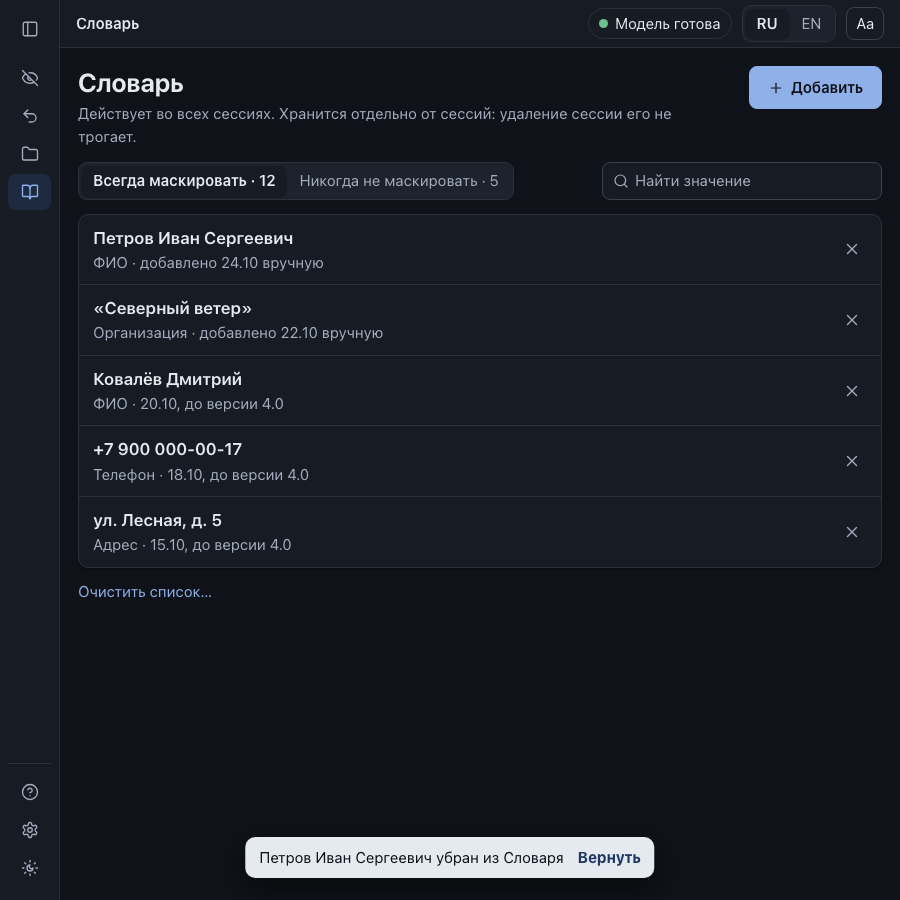
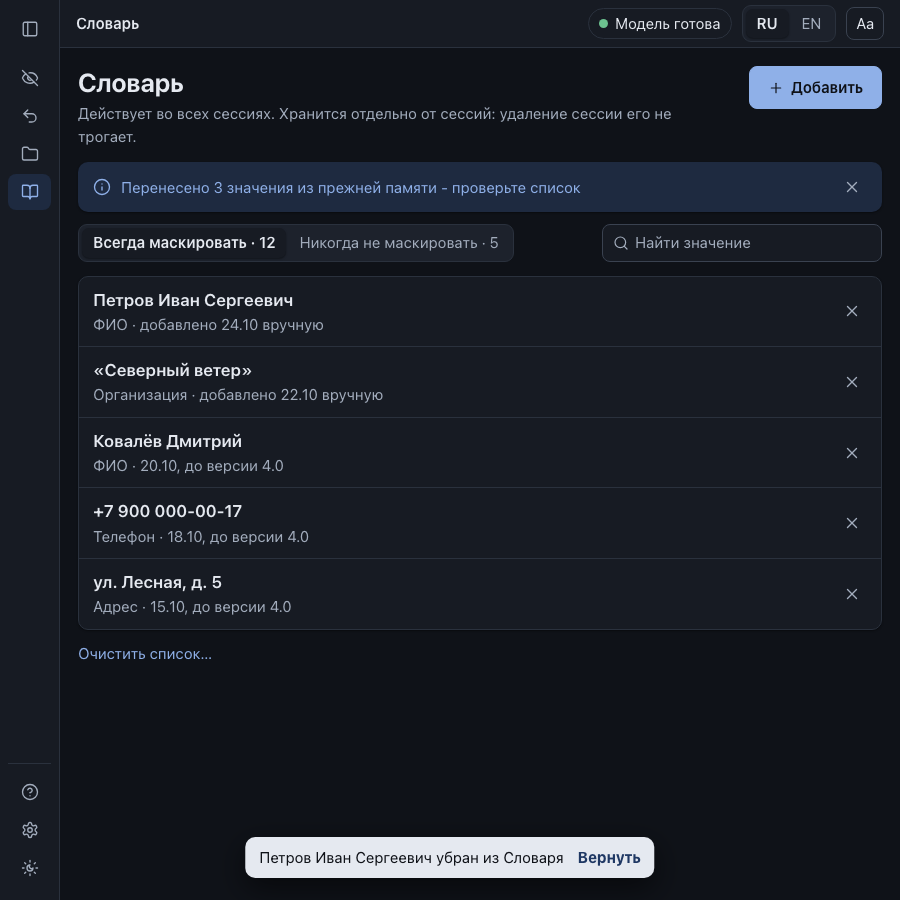
Задание 01: правки проверки дизайн-чата шага 1 в описании 2.1 и макетах (48 снимков); ответы на вопросы 1-3 (1 - да: «Вставить текст» в «Вернуть данные»)

diff --git a/docs/макеты 01/Макет - Anonymizer 4.0 (01).html b/docs/макеты 01/Макет - Anonymizer 4.0 (01).html
@@ -3,7 +3,7 @@
 <head>
 <meta charset="utf-8">
 <meta name="viewport" content="width=device-width, initial-scale=1">
-<title>Макет - Anonymizer 4.0 (задание 01)</title>
+<title>Макет - Anonymizer 4.0 (задание 01, утверждён с правками)</title>
 <style>
 /* Отличия токенов от LKD app.css (контраст 1.9): --ok темнее (#276b43, было 4,4 : 1 на --ok-soft), версия внизу меню - --muted.
    Макет задания 01 (описание v2 «как должно быть»). Каркас и токены - как в Legal Knowledge Desk web/static/app.css
@@ -188,6 +188,11 @@ table.tbl { width: 100%; border-collapse: collapse; font-size: .9375rem; }
 .sw.on { background: var(--accent); } .sw.on::after { left: 18px; }
 :root[data-theme="dark"] .sw.on::after { background: #0f1218; }
 .collapsed { color: var(--muted); }
+.note-line { display: flex; align-items: center; gap: 10px; padding: 9px 14px; margin-bottom: 12px; font-size: .9375rem; background: var(--info-soft); color: var(--info); border-color: transparent; }
+.hint-i { display: inline-flex; width: 16px; height: 16px; border-radius: 50%; border: 1px solid var(--border-strong); font-size: .75rem; align-items: center; justify-content: center; color: var(--muted); }
+.paste { width: 100%; min-height: 150px; box-sizing: border-box; border: 1px solid var(--border-strong); border-radius: var(--radius); background: var(--surface); padding: 12px 14px; font-size: .9375rem; color: var(--text); white-space: pre-wrap; }
+.result { background: var(--paper); color: var(--paper-text); border-radius: var(--radius); border: 1px solid var(--border); padding: 14px 18px; font-size: .9375rem; white-space: pre-wrap; }
+.rv-ok { background: #dff1e5; } .rv-case { background: #fbedcf; } .rv-bad { background: #fbe7e5; color: #8c1d18; }
 
 /* узкое окно (стандарт 1.6) */
 @media (max-width: 1100px) {
@@ -272,7 +277,7 @@ function table(n, total = 41) {
   return `<div class="sec"><div class="sec-h"><h2>${ic("chevron-down")}Таблица замен · ${total}</h2><span class="grow"></span>
     <span class="field" style="width:250px">${ic("search")}Найти: фамилия, ИНН</span>
     <span class="sel">Вид: все${ic("chevron-down")}</span><span class="btn">${ic("plus")}Добавить вручную</span></div>
-    <div class="card" style="overflow:hidden"><table class="tbl"><tr><th style="width:150px">Метка</th><th>В документе</th><th class="hide-narrow">Для нового текста</th><th style="width:150px">Вид</th><th style="width:40px"></th></tr>
+    <div class="card" style="overflow:hidden"><table class="tbl"><tr><th style="width:150px">Метка</th><th>В документе</th><th class="hide-narrow" title="ФИО - в именительном падеже, программа склонит сама">Начальная форма <span class="hint-i">?</span></th><th style="width:150px">Вид</th><th style="width:40px"></th></tr>
     ${rows.map(r => `<tr><td>${r[0]}</td><td>${r[1]}</td><td class="hide-narrow">${r[2]}</td><td class="muted">${r[3]}</td><td><span class="ib">${ic("ellipsis")}</span></td></tr>`).join("")}</table></div></div>`;
 }
 
@@ -311,7 +316,7 @@ S.done = () => {
   return head("Обезличить", ANON_SUB, `<span class="btn primary" disabled>${ic("eye-off")}Обезличить</span><span class="xs muted">Новых файлов нет</span>`)
     + sessline("3 файла", "41 запись") + strip
     + `<div class="card sum"><span class="big">${ic("shield-check")}Готово: 3 файла · 41 запись</span><span class="chip warn">${ic("triangle-alert")}Проверьте 1 файл</span><span class="grow"></span>
-       <span class="btn">${ic("download")}Скачать все (ZIP)</span><span class="btn">${ic("copy")}Инструкция для нейросети: Скопировать</span></div>`
+       <span class="btn">${ic("download")}Скачать все (ZIP)</span><span class="btn">${ic("copy")}Скопировать инструкцию для нейросети</span></div>`
     + `<div class="card list">`
     + frow("doc", "Договор поставки - Петров.docx", `${ic("check")}Найдено 14 · утечек нет · Договор поставки ${tok("FIO_1", "p")}.docx`, "ok", ACT_DONE)
     + frow("xls", "Реестр платежей сентябрь.xlsx", `${ic("triangle-alert")}Найдено 9 · проверьте 2 места - откройте «Просмотр»: там их можно замаскировать`, "warn", ACT_DONE)
@@ -319,7 +324,7 @@ S.done = () => {
     + `</div>` + table(5);
 };
 function previewBody(withSel) {
-  return `<div class="pvbar"><span class="fn">Договор поставки ${tok("FIO_1", "p")}.docx</span><span class="grow"></span>
+  return `<div class="pvbar"><span class="muted small">Скачается как:</span><span class="fn">Договор поставки ${tok("FIO_1", "p")}.docx</span><span class="grow"></span>
       <span class="field hide-narrow" style="width:260px">${ic("search")}Найти в тексте</span>
       <span class="check"><span class="box"></span>Показать исходный текст</span><span class="btn sm">${ic("download")}Скачать${ic("chevron-down")}</span></div>
     <div class="pv"><div class="doc"><div class="sheet">
@@ -348,11 +353,11 @@ function previewBody(withSel) {
     </div></div></div>`;
 }
 S.preview = () => {
-  menu("anon"); crumbs(["Обезличить", SESS, "Договор поставки [FIO_1].docx"], true); model("", "Модель готова");
+  menu("anon"); crumbs(["Обезличить", SESS, "Договор поставки - Петров.docx"], true); model("", "Модель готова");
   return previewBody(true);
 };
 S.unmask = () => {
-  menu("anon"); crumbs(["Обезличить", SESS, "Договор поставки [FIO_1].docx"], true); model("", "Модель готова");
+  menu("anon"); crumbs(["Обезличить", SESS, "Договор поставки - Петров.docx"], true); model("", "Модель готова");
   layer(`<div class="ov"><div class="dlg"><h2>Не маскировать «Петров Иван Сергеевич»?</h2>
     <p>В файлах значение останется открытым. Метка ${tok("FIO_1", "p")} пропадёт из текста, запись перейдёт в «Не маскируется» - её можно вернуть.</p>
     <div class="radio"><span class="rd on"></span>Только в этой сессии</div>
@@ -364,18 +369,28 @@ S.unmask = () => {
 S.restore = () => {
   menu("restore"); crumbs(["Вернуть данные", SESS + " · 3 файла"]); model("", "Модель готова");
   return head("Вернуть данные", "Загрузите ответ нейросети - метки заменятся значениями из выбранной сессии.", `<span class="btn primary" disabled>${ic("undo-2")}Вернуть данные</span><span class="xs muted">Новых файлов нет</span>`)
-    + `<div class="sessline"><span class="muted">Сессия:</span><span class="sel"><b>${SESS}</b> · 3 файла · 41 запись${ic("chevron-down")}</span></div>` + strip.replace("ещё файлы", "ответ нейросети")
+    + `<div class="sessline"><span class="muted">Сессия:</span><span class="sel"><b>${SESS}</b> · 3 файла · 41 запись${ic("chevron-down")}</span><span class="grow"></span><div class="seg"><span>Текст</span><span class="on">Файл</span></div></div>` + strip.replace("ещё файлы", "ответ нейросети")
     + `<div class="card sum"><span class="big">${ic("shield-check")}Готово: 2 файла · вернулось 52 значения</span><span class="chip bad">${ic("triangle-alert")}1 метка не найдена</span><span class="grow"></span><span class="btn">${ic("download")}Скачать все (ZIP)</span></div>`
     + `<div class="card list">`
-    + frow("doc", "Ответ нейросети - претензия.docx", `<span class="chip ok">31 точно</span><span class="chip warn">6 с подбором падежа</span><span>→ Претензия покупателю_restored.docx</span>`, "", ACT_DONE)
+    + frow("doc", "Ответ нейросети - претензия.docx", `<span class="chip ok">31 точно</span><span class="chip warn">6 с подбором падежа</span><span>→ Претензия покупателю (данные возвращены).docx</span>`, "", ACT_DONE)
     + frow("doc", "Ответ нейросети - письмо.docx", `<span class="chip ok">15 точно</span><span class="chip bad">не найдены в этой сессии: [FIO_9] - проверьте, та ли сессия выбрана</span>`, "", ACT_DONE)
     + `</div>`
     + `<div class="sec"><div class="card" style="padding:12px 16px; display:flex; gap:14px; align-items:center; flex-wrap:wrap"><span class="muted small">В «Просмотре» вставленные значения подсвечены:</span><span class="chip ok">точно</span><span class="chip warn">падеж подобран - проверьте</span><span class="chip bad">метка не найдена</span></div></div>`;
+};
+S.restoretext = () => {
+  menu("restore"); crumbs(["Вернуть данные", SESS + " · 3 файла"]); model("", "Модель готова");
+  return head("Вернуть данные", "Вставьте ответ нейросети - метки заменятся значениями из выбранной сессии.", `<span class="btn primary">${ic("undo-2")}Вернуть данные</span>`)
+    + `<div class="sessline"><span class="muted">Сессия:</span><span class="sel"><b>${SESS}</b> · 3 файла · 41 запись${ic("chevron-down")}</span><span class="grow"></span><div class="seg"><span class="on">Текст</span><span>Файл</span></div></div>`
+    + `<div class="paste">Направляем [FIO_1] ответ на претензию ООО «[YUL_1]» от 3 сентября.\nПоставщик готов заменить товар по договору. Подписание соглашения поручено [FIO_2].</div>`
+    + `<div class="card sum" style="margin-top:12px"><span class="big">${ic("shield-check")}Вернулось 3: 1 точно, 2 с подбором падежа</span><span class="grow"></span><span class="btn">${ic("copy")}Скопировать</span></div>`
+    + `<div class="result">Направляем <span class="rv-case">Петрову Ивану Сергеевичу</span> ответ на претензию ООО <span class="rv-ok">«Северный ветер»</span> от 3 сентября.\nПоставщик готов заменить товар по договору. Подписание соглашения поручено <span class="rv-case">Сидоровой Анне Викторовне</span>.</div>`
+    + `<div class="sec"><div class="card" style="padding:12px 16px; display:flex; gap:14px; align-items:center; flex-wrap:wrap"><span class="muted small">Подсвечено:</span><span class="chip ok">точно</span><span class="chip warn">падеж подобран - проверьте</span><span class="chip bad">метка не найдена</span><span class="muted small">Текст не сохраняется на диск.</span></div></div>`;
 };
 S.dict = () => {
   menu("dict"); crumbs(["Словарь"]); model("", "Модель готова");
   const rows = [["Петров Иван Сергеевич", "ФИО", "добавлено 24.10 вручную"], ["«Северный ветер»", "Организация", "добавлено 22.10 вручную"], ["Ковалёв Дмитрий", "ФИО", "20.10, до версии 4.0"], ["+7 900 000-00-17", "Телефон", "18.10, до версии 4.0"], ["ул. Лесная, д. 5", "Адрес", "15.10, до версии 4.0"]];
   return head("Словарь", "Действует во всех сессиях. Хранится отдельно от сессий: удаление сессии его не трогает.", `<span class="btn primary">${ic("plus")}Добавить</span>`)
+    + `<div class="card note-line">${ic("info")}<span>Перенесено 3 значения из прежней памяти - проверьте список</span><span class="grow"></span><span class="ib" title="Скрыть">${ic("x")}</span></div>`
     + `<div class="sessline"><div class="seg"><span class="on">Всегда маскировать · 12</span><span>Никогда не маскировать · 5</span></div><span class="grow"></span><span class="field" style="width:280px">${ic("search")}Найти значение</span></div>`
     + `<div class="card list">${rows.map(r => `<div class="row"><div class="main2"><div class="nm">${r[0]}</div><div class="meta">${r[1]} · ${r[2]}</div></div><div class="acts"><span class="ib" title="Убрать из Словаря">${ic("x")}</span></div></div>`).join("")}</div>`
     + `<div style="margin-top:12px; display:flex; gap:10px"><span class="link small">Очистить список…</span></div>`
@@ -412,7 +427,7 @@ S.settings = () => {
     + `<div class="card sgrp"><div class="gh"><h2>Хранение</h2></div>`
     + r("Хранить сессии", "Сессия удаляется целиком: оригиналы, файлы, таблица замен. За 3 дня - пометка в «Сессиях»", `<div class="seg"><span>7 дней</span><span class="on">30 дней</span><span>90 дней</span></div>`) + `</div>`
     + `<div class="card sgrp"><div class="gh">${ic("chevron-down")}<h2>Дополнительно</h2></div>`
-    + r("Использовать нейросеть", "Локальная нейросеть проверяет найденное и подбирает падеж в спорных местах. Медленнее; по замерам пользы почти нет. Работает в очереди видеокарты", `<span class="sw"></span>`) + `</div>`
+    + r("Использовать нейросеть", "Проверяет найденное и подбирает падеж в спорных местах. Медленнее, работает в очереди видеокарты", `<span class="sw"></span>`) + `</div>`
     + `<div class="card sgrp"><div class="gh collapsed">${ic("chevron-down").replace('class="i"', 'class="i" style="transform:rotate(-90deg)"')}<h2>Служебное</h2><span class="muted small">папка данных, журнал, режим диагностики, версия, остановить программу</span></div></div>`;
 };
 

diff --git a/docs/макеты 01/снять.py b/docs/макеты 01/снять.py
@@ -11,6 +11,7 @@ PAGE = (HERE / "Макет - Anonymizer 4.0 (01).html").as_uri()
 STATES = {"empty": "00 Обезличить - пусто", "upload": "01 Обезличить - файлы выбраны",
           "processing": "02 Обезличить - обработка", "done": "03 Обезличить - готово",
           "preview": "04 Просмотр с правкой", "unmask": "05 Окно «Не маскировать»", "restore": "06 Вернуть данные",
+          "restoretext": "06а Вернуть данные - текст",
           "dict": "07 Словарь", "sessions": "08 Сессии", "delete": "09 Окно удаления сессии", "settings": "10 Настройки"}
 WIDTHS = (1440, 900)
 with sync_playwright() as pw:

diff --git a/docs/Функциональное описание.md b/docs/Функциональное описание.md
@@ -1,11 +1,11 @@
 # Anonymizer - функциональное описание
 
-Версия 2 «как должно быть» · 24.10.2026 · программа 4.0 · основано на: версия 1 «как есть» (коммит `cd8d4c7`, 43 разрыва
+Версия 2.1 «как должно быть» · 24.10.2026 · программа 4.0 · основано на: версия 1 «как есть» (коммит `cd8d4c7`, 43 разрыва
 Р-1…Р-43), задание `docs/01. Задание для Claude Code - ревью дизайн-чата…`, `docs/Продукт.md`, «Единый стандарт
 программ» (24.10), `CLAUDE.md`. Макеты: `docs/макеты 01/` (1440 и 900 px, светлая и тёмная тема).
 
-**Это описание - на утверждение дизайн-чату и Андрею. Код по нему пишется только после «да».** Пока код не менялся:
-программа работает как в версии 1.
+**Утверждено** дизайн-чатом и Андреем 24.10 (вечер) с шестью правками - они внесены в версию 2.1 (раздел 9). По
+этому описанию написана программа 4.0.
 
 ## Решения по вопросам версии 1
 
@@ -21,15 +21,15 @@
 | 6 | Имя сессии из имени файла | нет: «Сессия 24.10», переименование вручную |
 | 7 | Пересобрать `.app` | да, общим сборщиком; ярлык - на новую сборку |
 
-## Вопросы Андрею (новые)
+## Вопросы шага 1 - решения
 
-Пока ответа нет, действует разумное решение из правой колонки.
+Ответы - по рекомендации дизайн-чата (проверка шага 1, 24.10 вечер); Андрей может изменить любое.
 
-| № | Вопрос | Решение, пока нет ответа |
+| № | Вопрос | Решение |
 |---|---|---|
-| 1 | Ответ нейросети часто - текст в чате, а не файл. Нужно ли в «Вернуть данные» поле «Вставить текст» (вставили ответ → получили текст с данными, «Скопировать»)? | нет: только файлы, как сейчас. Это новая функция - отдельным заданием, если нужна |
-| 2 | Нейросеть подбирает падеж в спорных местах при возврате. Сейчас она делает это сама, если Ollama запущена. Подчинить её той же галочке «Использовать нейросеть»? | да, одна галочка на оба случая. Выключена - падеж только правилами, спорные места подсвечены жёлтым, как сейчас |
-| 3 | Срок хранения: варианты 7 / 30 / 90 дней. Нужен ли вариант «не удалять»? | нет: только 7 / 30 / 90 (минимизация данных) |
+| 1 | Ответ нейросети часто - текст в чате, а не файл. Нужно ли в «Вернуть данные» поле «Вставить текст»? | **да** - это основной путь: вставили ответ → «Вернуть данные» → текст с данными и «Скопировать» (3.7) |
+| 2 | Подбор падежа нейросетью при возврате подчинить той же галочке «Использовать нейросеть»? | **да**, одна галочка на оба случая. Выключена - падеж только правилами, спорные места подсвечены жёлтым |
+| 3 | Срок хранения 7 / 30 / 90 дней. Нужен ли вариант «не удалять»? | **нет**: только 7 / 30 / 90 (минимизация данных) |
 
 ## Практика
 
@@ -52,7 +52,7 @@ Anonymizer готовит документы к отправке во внешн
 
 Главные сценарии:
 1. **Обезличить и отправить:** «Обезличить» → перетащить файлы → «Обезличить» → «Просмотр» (проверить, поправить) →
-   «Скачать» → «Инструкция для нейросети: Скопировать».
+   «Скачать» → «Скопировать инструкцию для нейросети».
 2. **Вернуть данные:** «Вернуть данные» → выбрать сессию → загрузить ответ нейросети → «Вернуть данные» → «Просмотр»
    (зелёным - точно, жёлтым - падеж подобран, красным - метка не найдена) → «Скачать».
 3. **Поправить найденное:** «Просмотр» → «Не маскировать» / «Замаскировать» выделенное / «Изменить» → файл
@@ -170,7 +170,7 @@ Anonymizer готовит документы к отправке во внешн
 | «Скачать ▾» в строке | Word (или исходный формат), PDF - если в Настройках «Также сохранить PDF» | файл в «Загрузки» | файл не готов |
 | «⋯» в строке | «Убрать из сессии» (окно: «Файл и его оригинал удалятся. Записи таблицы замен останутся - они нужны другим файлам и для «Вернуть данные».»); «Проверить ещё нейросетью» - только если нейросеть включена | файл и оригинал удалены сразу | - |
 | «Скачать все (ZIP)» (в итоге) | обезличенные файлы сессии одним архивом - только этого раздела | архив в «Загрузки» | готовых файлов меньше двух - кнопки нет |
-| «Инструкция для нейросети: Скопировать» (в итоге) | копирует текст для внешней нейросети: метки не изменять, не склонять, не переводить, не объединять; одна метка - одно лицо или одна организация | строка «Скопировано - вставьте перед документом в чат нейросети»; буфер недоступен - окно программы с выделенным текстом и «Закрыть» | - |
+| «Скопировать инструкцию для нейросети» (в итоге) | копирует текст для внешней нейросети: метки не изменять, не склонять, не переводить, не объединять; одна метка - одно лицо или одна организация | строка «Скопировано - вставьте перед документом в чат нейросети»; буфер недоступен - окно программы с выделенным текстом и «Закрыть» | - |
 
 - **Ход обработки** (блок хода, стандарт 2.2): полоса с процентом; «Файл 2 из 3 · Ищу данные · 0:14 · осталось
   ~0:20»; «Остановить». Этапы: «Читаю файл» → «Ищу данные» → «Заменяю» → «Проверяю утечки» (и «Проверяю
@@ -182,7 +182,10 @@ Anonymizer готовит документы к отправке во внешн
   `/api/ner-retry`. «Обезличить без распознавания имён» - красным, с подписью «ФИО и организации найдутся только
   правилами - проверьте каждый файл в «Просмотре» перед отправкой».
 - **Итог** (макет `3`): «Готово: 3 файла · 41 запись · утечек нет» (или «Проверьте 2 файла» жёлтым) · «Скачать все
-  (ZIP)» · «Инструкция для нейросети: Скопировать».
+  (ZIP)» · «Скопировать инструкцию для нейросети».
+- **Имена файлов** (было Р-39, правка 6 дизайн-чата): в окне - исходное имя («Договор поставки - Петров.docx»), под
+  ним - имя обезличенного файла; скачиваемые файлы и ZIP - **только с метками** («Договор поставки [FIO_1].docx»,
+  архив «Обезличенные файлы - Сессия 24.10.zip»). Имя исходного файла не уходит ни в файл, ни в архив, ни в журнал.
 - **Строка файла:**
   - готово: «Найдено 14 · утечек нет · Договор поставки [YUL_1].docx»;
   - проверьте: «Найдено 9 · проверьте 2 места - откройте «Просмотр»: там их можно замаскировать» (жёлтым; список мест
@@ -224,22 +227,23 @@ Anonymizer готовит документы к отправке во внешн
     «Обезличить» с прежними итогами, файлы с данными - только в «Вернуть данные».
   - UC-A6: файл 120 МБ → строка «Файл больше 100 МБ - разделите его», остальные файлы обработаны.
   - UC-A7: «Убрать из сессии» → окно программы → файла нет в списке и на диске, записи таблицы замен на месте.
-  - UC-A8: «Инструкция для нейросети: Скопировать» → в буфере текст инструкции.
+  - UC-A8: «Скопировать инструкцию для нейросети» → в буфере текст инструкции.
 
 ### 3.3 Таблица замен
 
 - **Назначение:** все записи сессии в одной таблице: найти, исправить, добавить, снять маску и вернуть её.
 - **Где:** под списком файлов в «Обезличить»; заголовок «Таблица замен · 41» сворачивает и разворачивает.
 - **Что видно** (макет `3`): поиск «Найти: фамилия, ИНН, метка…»; фильтр «Вид: все ▾» - все 30 видов (5.3) и
-  отдельным пунктом **«Не маскируется»**; «+ Добавить вручную»; таблица «Метка | В документе | Для нового текста | Вид
-  | ⋯». Одна строка - одна метка, все формы через « · » (первая - основная).
+  отдельным пунктом **«Не маскируется»**; «+ Добавить вручную»; таблица «Метка | В документе | Начальная форма | Вид
+  | ⋯»; у заголовка «Начальная форма» - подсказка «ФИО - в именительном падеже, программа склонит сама». Одна строка -
+  одна метка, все формы через « · » (первая - основная).
 
 | Элемент | Что делает | Что меняется | Когда неактивен |
 |---|---|---|---|
-| поиск | по метке, формам, форме для нового текста | строки; пусто - «Ничего не найдено» | - |
+| поиск | по метке, формам, начальной форме | строки; пусто - «Ничего не найдено» | - |
 | «Вид ▾» | 30 видов + «Не маскируется» | строки | - |
 | «+ Добавить вручную» | окно записи (3.4) | новая запись; файлы сессии пересобраны | **доступна всегда** (было Р-20). До первого файла - подпись в окне «Добавится и применится при обработке» |
-| «⋯» строки → «Изменить» | окно записи | новая метка (старая остаётся для прежних файлов) или та же, если менялась только форма для нового текста; пересборка | - |
+| «⋯» строки → «Изменить» | окно записи | новая метка (старая остаётся для прежних файлов) или та же, если менялась только начальная форма; пересборка | - |
 | «⋯» строки → «Не маскировать» | 3.5 | строка уходит в «Не маскируется»; пересборка | - |
 | «⋯» строки в «Не маскируется» → «Вернуть маску» | маска снова действует, метка та же (было Р-22) | строка возвращается в таблицу; пересборка | - |
 
@@ -265,7 +269,8 @@ Anonymizer готовит документы к отправке во внешн
 - **Что видно:**
   - заголовок; «Метка: [FIO_1]» (только при правке);
   - «Значение в документе» - «Ровно как в документе: это значение ищется и заменяется меткой»;
-  - «Форма для нового текста (необязательно)» - «Для ФИО - именительный падеж: программа сама склонит»;
+  - «Начальная форма (необязательно)» - «ФИО - в именительном падеже, программа склонит сама. Она вставляется в новый
+    текст ответа нейросети»;
   - «Вид» - 30 видов, при «Замаскировать» угадан по тексту;
   - **«Маскировать: только в этой сессии / всегда»** - по умолчанию «только в этой сессии»; «всегда» кладёт значение
     в «Словарь → Всегда маскировать» (3.11). При правке переключатель показан, только если значение уже в Словаре;
@@ -298,9 +303,9 @@ Anonymizer готовит документы к отправке во внешн
 
 - **Назначение:** увидеть результат, не открывая файл; проверить и поправить на месте.
 - **Как попасть / уйти:** «Просмотр» в строке файла - экран внутри «Обезличить», путь «Обезличить › Сессия 24.10 ›
-  Договор поставки [YUL_1].docx»; «← Назад» - к списку файлов. Не окно поверх: «Назад» и путь, как везде.
+  Договор поставки - Петров.docx» (исходное имя); «← Назад» - к списку файлов. Не окно поверх: «Назад» и путь, как везде.
 - **Что видно** (макет `4`):
-  1. Строка над документом: имя файла; поиск «Найти в тексте: слово, фамилия, метка…»; «☐ Показать исходный
+  1. Строка над документом: «Скачается как: Договор поставки [YUL_1].docx» (имя с метками); поиск «Найти в тексте: слово, фамилия, метка…»; «☐ Показать исходный
      текст»; «Скачать ▾».
   2. Документ на белом листе (в обеих темах, 1.9):
      - Word - как в Word (docx-preview);
@@ -365,6 +370,12 @@ Anonymizer готовит документы к отправке во внешн
   - в новом тексте ФИО склоняется по правилам (`core/cases.py`);
   - неясный падеж - нейросетью, только если она включена (вопрос 2), иначе правилом с жёлтой подсветкой;
   - организация без кавычек и ОПФ получает их по Настройкам.
+- **Вставить текст** (вопрос 1 - да; основной путь: ответ нейросети чаще текст в чате): под зоной загрузки -
+  переключатель «Файл | Текст». «Текст» - поле «Вставьте ответ нейросети» (Cmd+V), кнопка «Вернуть данные»; под полем -
+  результат с подсветкой (те же цвета, что в просмотре 3.8), итог «Вернулось 12: 10 точно, 2 с подбором падежа» и
+  «Скопировать» (обычным текстом). Текст не сохраняется на диск и пропадает при уходе с экрана.
+- **Имя файла с возвращёнными данными** (правка 1): «<имя ответа с данными> (данные возвращены).docx», например
+  «Претензия покупателю (данные возвращены).docx»; не `_restored`.
 - **Строка файла:**
   - «Вернулось 37: 31 точно, 6 с подбором падежа»;
   - «Не найдены в этой сессии: [FIO_9] - проверьте, та ли сессия выбрана» (красным);
@@ -374,10 +385,13 @@ Anonymizer готовит документы к отправке во внешн
 - **Данные:** что и как вставлено - `uploads/<сессия>/restore_marks/<файл>.json`; раздел «вернуть» - в
   `manifest.json`.
 - **Сценарии проверки:**
-  - UC-D1: изменить «Форму для нового текста» у ФИО → вернуть ответ с меткой в новом предложении → в файле
+  - UC-D1: изменить «Начальную форму» у ФИО → вернуть ответ с меткой в новом предложении → в файле
     исправленная форма в нужном падеже.
   - UC-D2: ответ с меткой не из этой сессии → «Не найдены в этой сессии: …».
   - UC-D3: две сессии → «Сессия ▾» → вторая → значения из второй.
+  - UC-D4: «Текст» → вставить ответ с [FIO_1] в новом предложении → «Вернуть данные» → значение в нужном падеже
+    подсвечено жёлтым, «Скопировать» → в буфере текст без меток.
+  - UC-D5: имя файла с возвращёнными данными - «… (данные возвращены).docx».
 
 ### 3.8 Просмотр файла с возвращёнными данными
 
@@ -454,7 +468,9 @@ Anonymizer готовит документы к отправке во внешн
   - переключатель «Всегда маскировать · 12» | «Никогда не маскировать · 5»;
   - поиск;
   - строки: значение, вид, откуда («добавлено 24.10 вручную», «из «Не маскировать»», «20.10, до версии 4.0»), ✕;
-  - внизу ссылка «Очистить список…».
+  - внизу ссылка «Очистить список…»;
+  - **после перехода на 4.0** - одна строка над списком «Всегда маскировать»: «Перенесено N значений из прежней памяти -
+    проверьте список» и ✕ (строка скрывается навсегда).
 
 | Элемент | Что делает | Что меняется | Когда неактивен |
 |---|---|---|---|
@@ -468,7 +484,9 @@ Anonymizer готовит документы к отправке во внешн
   - Значение в обоих списках сразу быть не может: добавление в один убирает из другого (строка «Перенесено из
     «Никогда не маскировать»»).
 - **Данные:** `known_entities` (всегда) и новая таблица `never_mask` (никогда) в `anon.db`. Миграция - 5.4: прежняя
-  память переходит в «Всегда маскировать» с пометкой «до версии 4.0».
+  память переходит в «Всегда маскировать» с пометкой «до версии 4.0»; на экране - строка «Перенесено N значений из
+  прежней памяти - проверьте список».
+- **Срок:** Словарь хранит значения без срока, пока их не удалят (в Справке - «Что такое сессия и Словарь»).
 - **Состояния:**
   - «Всегда маскировать» пуст: «Пусто. Сюда попадают значения, для которых вы выбрали «всегда» при добавлении
     вручную»;
@@ -494,7 +512,7 @@ Anonymizer готовит документы к отправке во внешн
 | | ОПФ (ООО, АО…) | по смыслу / всегда / не добавлять | «Добавлять ли ООО, АО…, если рядом их нет» |
 | | Подсветить в Word места с подобранным падежом | вкл | «Жёлтая заливка - проверьте эти места» |
 | Хранение | Хранить сессии | 7 / **30** / 90 дней | «Сессия удаляется целиком: оригиналы, файлы, таблица замен. За 3 дня - пометка в «Сессиях»» |
-| Дополнительно (свёрнуто) | Использовать нейросеть | **выкл** | «Локальная нейросеть проверяет найденное и подбирает падеж в спорных местах. Медленнее; по замерам пользы почти нет. Работает в очереди видеокарты» |
+| Дополнительно (свёрнуто) | Использовать нейросеть | **выкл** | «Проверяет найденное и подбирает падеж в спорных местах. Медленнее, работает в очереди видеокарты» |
 | | Модель | список моделей Ollama (`qwen3.5:9b`), выбор сохраняется (было Р-43) | «Ollama: готова» / «Ollama не запущена - Запустить» / «Нет модели - см. Справку» (без ссылки в интернет) |
 | Служебное (свёрнуто) | Папка данных | путь, «Открыть» | - |
 | | Журнал | «Открыть папку», «Последние задачи» (окно: 20 последних обработок, без имён файлов и значений) | - |
@@ -514,7 +532,8 @@ Anonymizer готовит документы к отправке во внешн
 
 - **Что видно:** экран «Справка» - те же разделы, что в этом описании, своими словами: «Как обезличить», «Как вернуть
   данные», «Что такое сессия и Словарь», «Что делать, если программа что-то не нашла», «Как хранятся данные»,
-  «Нейросеть и видеокарта». «Как пользоваться.docx» и «How to use.docx» собираются из того же текста
+  «Нейросеть и видеокарта». В «Что такое сессия и Словарь» - что сессия удаляется по сроку, а Словарь хранит
+  значения без срока, пока их не удалят. «Как пользоваться.docx» и «How to use.docx» собираются из того же текста
   (`scripts/build_howto_docx.py`, стандарт 5.1; было Р-31).
 
 ### 3.14 Окно «Видеокарта занята» (общий модуль `common/lock`)
@@ -655,7 +674,6 @@ XLSM; PDF с текстом → DOCX (+ PDF по настройке); PDF-ска
 - **Распознавания сканов на Windows** - Apple Vision есть только на macOS.
 - **Новой Windows-сборки** - решение Андрея 24.10: Windows - только Herald, Scribe, «Понятный документ».
   `build_windows.bat` и `Anonymizer.spec` для Windows остаются как есть и не проверяются.
-- **Вставки ответа текстом** - вопрос 1 Андрею; пока только файлы.
 - **pdf.js и «Было / стало» в две колонки** (стандарт 8.3) - для обезличивания «было» - это персональные данные на
   экране рядом с результатом. Вместо этого - «Показать исходный текст» на месте.
 
@@ -717,6 +735,8 @@ XLSM; PDF с текстом → DOCX (+ PDF по настройке); PDF-ска
 - **`scripts/check_all.sh`** перед push (уже подключён, общий блок `ci`).
 - **Полнота:** стенд 245 вариантов до и после - не ниже 99 %, FP 0, RT 0; `scripts/e2e_private.py` - 0 ошибок.
 - **Миграция:** копия базы Андрея во временной папке → 4.0 → числа до и после совпадают.
+- **Имена файлов** (правка 6): в окне - исходное имя; имена скачиваемых файлов, имена внутри ZIP и имя ZIP не
+  содержат ни одного значения таблицы замен (тест на вымышленном «Договор поставки - Петров.docx»).
 - **Аудит «мёртвых концов»** (Методика): каждая кнопка ведёт к действию этого описания.
 
 ## 9. Журнал изменений описания
@@ -725,3 +745,4 @@ XLSM; PDF с текстом → DOCX (+ PDF по настройке); PDF-ска
 |---|---|---|---|
 | 1 | 24.10.2026 | первое описание «как есть» по коду (коммит 5c305f8) | перевод на методику |
 | 2 | 24.10.2026 | «как должно быть»: общий каркас (4 раздела), один режим «Обезличить», «Не маскировать» одним словом, «Словарь», сессии без имени файла и с удалением целиком, ход работы и «Остановить», ошибки по-русски, Настройки по группам, миграция с копией; 43 разрыва → раздел 7 | 01 |
+| 2.1 | 24.10.2026 | правки дизайн-чата шага 1: имя «… (данные возвращены)», колонка «Начальная форма», «Скопировать инструкцию для нейросети», подпись «Использовать нейросеть», строка «Перенесено N значений» в Словаре и срок Словаря в Справке, исходное имя в окне и только метки в скачиваемых именах; ответы на вопросы 1-3 (1 - да: «Вставить текст» в «Вернуть данные») | 01 |

diff --git a/docs/макеты 01/Макеты 01 - что где.md b/docs/макеты 01/Макеты 01 - что где.md
@@ -1,12 +1,14 @@
-# Anonymizer 4.0 - макеты к описанию версии 2 (задание 01, на утверждение)
+# Anonymizer 4.0 - макеты к описанию версии 2.1 (задание 01, утверждены с правками)
 
-24.10.2026. Макеты к «Функциональное описание.md» версии 2 «как должно быть». Код программы не менялся: он будет
-написан только после «да».
+24.10.2026. Макеты к «Функциональное описание.md» версии 2.1 «как должно быть». Утверждены дизайн-чатом 24.10 (вечер);
+правки проверки шага 1 внесены: имя «… (данные возвращены)», колонка «Начальная форма», кнопка «Скопировать инструкцию
+для нейросети», подпись «Использовать нейросеть», строка «Перенесено N значений» в Словаре, исходное имя в пути просмотра
+и «Скачается как: …» с метками, «Вернуть данные → Текст» (ответ на вопрос 1 - да).
 
 - **Размеры:** 1440 × 900 и 900 × 900 (узкое окно: меню значками, стандарт 1.6).
 - **Темы:** светлая и тёмная, масштаб 100 % (текст 17 px).
 - **Данные:** все вымышленные. Каркас и токены - как в Legal Knowledge Desk `web/static/app.css`, значки - lucide (ISC).
-- **Проверено** на всех 44 снимках:
+- **Проверено** на всех 48 снимках:
   - контраст - общий модуль `common/a11y` (axe-core, WCAG 2.1 AA) - 0 нарушений;
   - обрезанный текст (`scrollWidth > clientWidth`) - 0.
 
@@ -15,17 +17,18 @@
 | 00 | `00 Обезличить - пусто` | первый запуск: зона загрузки, «Сессия появится сама при первом файле», «Обезличить» неактивна с причиной | 3.2 |
 | 01 | `01 Обезличить - файлы выбраны` | сессия «Сессия 24.10», три новых файла, «Обезличить (3)»; таблица замен пуста, «Добавить вручную» доступна | 3.2, 3.3 |
 | 02 | `02 Обезличить - обработка` | блок хода: процент, «Файл 2 из 3 · Ищу данные», прошло и осталось, «Остановить»; в шапке синяя строка «Работает» | 3.2, 3.1 |
-| 03 | `03 Обезличить - готово` | итог «Готово: 3 файла · 41 запись», «Проверьте 1 файл», ZIP, инструкция для нейросети; строки файлов с итогом; таблица замен | 3.2, 3.3 |
-| 04 | `04 Просмотр с правкой` | документ на белом листе с метками, выделенное «Ковалёв Д.» и кнопка «Замаскировать»; справа «Проверьте: 1 место», значения по группам, у выбранного - «Изменить», «Другое написание…», «Не маскировать» | 3.6 |
+| 03 | `03 Обезличить - готово` | итог «Готово: 3 файла · 41 запись», «Проверьте 1 файл», ZIP, «Скопировать инструкцию для нейросети»; строки файлов с итогом; таблица замен | 3.2, 3.3 |
+| 04 | `04 Просмотр с правкой` | путь с исходным именем файла, «Скачается как: … [FIO_1].docx»; документ на белом листе с метками, выделенное «Ковалёв Д.» и кнопка «Замаскировать»; справа «Проверьте: 1 место», значения по группам, у выбранного - «Изменить», «Другое написание…», «Не маскировать» | 3.6 |
 | 05 | `05 Окно «Не маскировать»` | одно окно для снятия маски: «только в этой сессии / всегда - в Словарь» | 3.5 |
-| 06 | `06 Вернуть данные` | выбор сессии, итог «вернулось 52», «31 точно / 6 с подбором падежа», красная строка «не найдены в этой сессии», легенда цветов | 3.7 |
-| 07 | `07 Словарь` | «Всегда маскировать · 12» и «Никогда не маскировать · 5», строка «убран из Словаря · Вернуть» | 3.11 |
+| 06 | `06 Вернуть данные` | выбор сессии, «Текст \| Файл», итог «вернулось 52», «31 точно / 6 с подбором падежа», красная строка «не найдены в этой сессии», легенда цветов | 3.7 |
+| 06а | `06а Вернуть данные - текст` | вставленный ответ нейросети, «Вернулось 3: 1 точно, 2 с подбором падежа», «Скопировать», текст с подсветкой | 3.7 |
+| 07 | `07 Словарь` | строка «Перенесено 3 значения из прежней памяти - проверьте список», «Всегда маскировать · 12» и «Никогда не маскировать · 5», строка «убран из Словаря · Вернуть» | 3.11 |
 | 08 | `08 Сессии` | список строками: число файлов и записей, дата, «удалится через 3 дня», «⋯» и ✕ | 3.9 |
 | 09 | `09 Окно удаления сессии` | последствия числами, «Отменить удаление нельзя», фокус на «Отмене» | 3.10 |
 | 10 | `10 Настройки` | группы «Обезличивание», «Возврат данных», «Хранение», «Дополнительно» (нейросеть выключена), «Служебное» свёрнуто; «Сохранено» у параметра | 3.12 |
 
 **Как открыть:** страница `Макет - Anonymizer 4.0 (01).html` открывается в браузере.
-- Состояние задаётся адресом: `#empty`, `#upload`, `#processing`, `#done`, `#preview`, `#unmask`, `#restore`, `#dict`,
+- Состояние задаётся адресом: `#empty`, `#upload`, `#processing`, `#done`, `#preview`, `#unmask`, `#restore`, `#restoretext`, `#dict`,
   `#sessions`, `#delete`, `#settings`.
 - Тема - `?theme=dark`.
 - Снимки обновляет `снять.py` (безголовый Chromium).

diff --git a/docs/01. Задание для Claude Code - ревью дизайн-чата, общий каркас, упрощение (описание «как должно быть»).md b/docs/01. Задание для Claude Code - ревью дизайн-чата, общий каркас, упрощение (описание «как должно быть»).md
@@ -52,3 +52,16 @@
 4. Отчёт: таблица «разрыв Р-N → как закрыт», стандарт - соответствие, метрика полноты на стенде до / после (не хуже 99 %).
 
 Видеокарта - только если проверяется галочка «Проверить ещё нейросетью», под очередью, фон.
+
+## Проверка дизайн-чата шага 1 (24.10, вечер)
+
+Описание v2 и 44 макета приняты. Отступления CC («таблица замен», просмотр экраном, зелёный темнее) - верные. Перед кодом поправить в описании и макетах:
+
+1. **Имя возвращённого файла** - не `_restored`, а «Претензия покупателю (данные возвращены).docx».
+2. **Колонка «Для нового текста»** непонятна - «Начальная форма» (подсказка: «ФИО - в именительном падеже, программа склонит сама»).
+3. **«Инструкция для нейросети: Скопировать»** → кнопка «Скопировать инструкцию для нейросети».
+4. **Настройки → «Использовать нейросеть»**: убрать из подписи «по замерам пользы почти нет» - это для Справки. Подпись: «Проверяет найденное и подбирает падеж в спорных местах. Медленнее, работает в очереди видеокарты».
+5. **Старая память «до версии 4.0»**: при первом запуске 4.0 - одна строка на экране «Словарь»: «Перенесено N значений из прежней памяти - проверьте список». В Справке - что Словарь хранит значения без срока, пока их не удалят.
+6. **Имена файлов**: в окне показывается исходное имя («Договор поставки - Петров.docx»), а скачиваемые файлы и ZIP - только с метками. Добавить в проверки.
+
+Ответы на три вопроса - по решению Андрея (рекомендация дизайн-чата: 1 - да, поле «Вставить текст» → «Скопировать», это основной путь - ответ нейросети чаще текст в чате; 2 - да; 3 - нет).

diff --git a/docs/Продукт.md b/docs/Продукт.md
@@ -1,6 +1,6 @@
 # Anonymizer - продукт
 
-Версия 1 · 24.10.2026 · задание 01 (ревью дизайн-чата). Основа: «Функциональное описание.md» v1 «как есть», README,
+Версия 1.1 · 24.10.2026 · задание 01 (ревью дизайн-чата, утверждено). Основа: «Функциональное описание.md» v1 «как есть», README,
 CHANGELOG 3.4.2.
 
 ## Зачем
@@ -24,8 +24,8 @@ CHANGELOG 3.4.2.
    нажимает «Обезличить» → получает файлы с метками, итог проверки утечек и короткую инструкцию для нейросети, чтобы
    она не трогала метки. Один человек во всех файлах сессии - одна метка.
 2. **Вернуть данные в ответ нейросети.** Хочет получить готовый документ с настоящими именами → «Вернуть данные»,
-   загружает ответ нейросети → получает файл, где метки заменены значениями; места с подобранным падежом
-   подсвечены, ненайденные метки названы.
+   вставляет ответ нейросети текстом (чаще всего) или загружает файл → получает текст или файл, где метки заменены
+   значениями; места с подобранным падежом подсвечены, ненайденные метки названы.
 3. **Поправить найденное.** Видит лишнюю или пропущенную маску → «Просмотр» → «Не маскировать», «Замаскировать»
    выделенное, «Изменить» → файл пересобирается сам. Значение, которое нужно маскировать или не маскировать всегда,
    уходит в «Словарь» - его видно и можно удалить.
